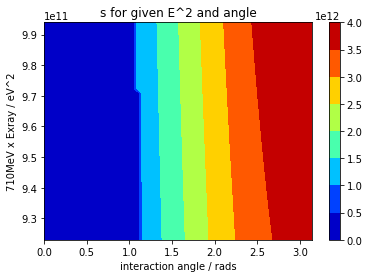
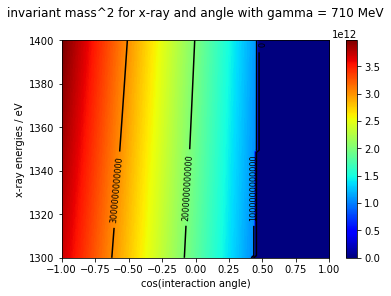
changed to cos theta, added code for energy vs angle

diff --git a/sigma_vs_sqrt(s).py b/sigma_vs_sqrt(s).py
@@ -20,9 +20,9 @@ me = 0.511e6
 re = 2.82e-15
 #%% function for cross-section
 
-def sigma(E_g, E_x, t):
+def sigma(E_g, E_x, c):
     # CoM invariant mass^2
-    s = 2*(1-np.cos(t))*E_g*E_x
+    s = 2*(1-c)*E_g*E_x
     if s < 4*me*me:
         sig = 0
     else:
@@ -34,32 +34,37 @@ def sigma(E_g, E_x, t):
 # 2. set of data for E_g and E_x with reasonable range in 1D array form
 
 # x-ray spectrum of range 1.3-1.4 keV with resolution 4 eV
-E_x = np.arange(1.3e3, 1.4e3, 4)
+E_x = np.linspace(1.3e3, 1.4e3, 100)
 # gamma ray maximum of 710 +- 50 MeV
-E_g = np.linspace(660e6, 760e6, 25)
+E_g = np.linspace(660e6, 760e6, 100)
 #%%
 # 3. matrix of sigma values for E_g and E_x values
 #matrix of cross-sections 
 sig = np.zeros((len(E_g), len(E_x)))
 
 #angle of interaction
-theta = 2.5
+cos = -0.1
+
 for i in range(len(E_g)):
     for j in range(len(E_x)):
-        sig[i][j] = sigma(E_g[i], E_x[j], theta)
+        sig[i][j] = sigma(E_g[i], E_x[j], cos)
 #%% print matrix
+#scaling
+vmax = sig.max()
+vmin = sig.min()
+xmin = E_x.min()
+xmax = E_x.max()
+gmin = E_g.min()
+gmax = E_g.max()
 
 x,y = np.meshgrid(E_x, E_g)
 
-plt.title("cross-section for given photon E at theta = 2.5", y=1.08)
+plt.title("cross-section for given photon E at cos(theta) = %f" % cos, y=1.08)
 plt.xlabel("X-ray energy / eV")
 plt.ylabel("Gamma ray energy / eV")
-plt.pcolormesh(x, y, sig, cmap = 'jet')
-plt.colorbar()
-plt.show()
 
-
-        
-
-
-    
+contours = plt.contour(x, y, sig, 6, vmax= vmax, vmin= vmin, colors='black')
+plt.clabel(contours, inline=True, fontsize=8)
+plt.imshow(sig, extent=[xmin, xmax, gmin, gmax], origin='lower',
+           cmap='jet', aspect='auto')
+plt.colorbar()  

diff --git a/sigma_Ex_vs_theta.py b/sigma_Ex_vs_theta.py
@@ -1,0 +1,59 @@
+# -*- coding: utf-8 -*-
+"""
+Created on Sat Jan 22 09:26:54 2022
+
+@author: 2dong
+"""
+#imports
+import numpy as np
+import matplotlib.pyplot as plt
+
+#constants
+# electron rest mass in eV
+me = 0.511e6
+# classical electron radius in m
+re = 2.82e-15
+#%% function for cross-section
+
+def sigma(E_g, E_x, c):
+    # CoM invariant mass^2
+    s = 2*(1-c)*E_g*E_x
+    if s < 4*me*me:
+        sig = 0
+    else:
+        #beta
+        b = np.sqrt(1-(4*me*me)/s)
+        sig = 0.5*np.pi*re*re*(1-b*b)*((3-b*b*b*b)*np.log((1+b)/(1-b))-2*b*(2-b*b))
+    return sig
+#%%
+#plotting cross-section for range 0<theta<pi and 1.3 keV < x-ray < 1.4 keV and 710 MeV gamma
+#E gamma = 710 MeV
+Eg = 710e6
+c = np.linspace(-1, 1, 100)
+E_x = np.linspace(1.3e3, 1.4e3, 100)
+# x-section for Ex and theta
+sig = np.zeros((len(E_x), len(c)))
+
+for i in range(len(E_x)):
+    for j in range(len(c)):
+        sig[i][j] = sigma(Eg, E_x[i], c[j])
+
+x,y = np.meshgrid(c, E_x)
+
+ma = sig[sig != 0]
+vmax = ma.max()
+vmin = ma.min()
+
+Emin = E_x.min()
+Emax = E_x.max()
+#%%
+plt.title("cross-section for given x-ray energies and angles", y=1.08)
+plt.xlabel("cos(interaction angle)")
+plt.ylabel("x-ray energy / eV")
+contours = plt.contour(x, y, sig, 4, vmax= vmax, vmin= vmin, colors='black')
+plt.clabel(contours, inline=True, fontsize=8)
+
+plt.imshow(sig, extent=[-1, 1, Emin, Emax], origin='lower',
+           cmap='jet', aspect='auto')
+plt.colorbar()
+        

diff --git a/s_vs_theta.py b/s_vs_theta.py
@@ -14,28 +14,35 @@ import matplotlib.pyplot as plt
 #constants
 # electron rest mass in eV
 me = 0.511e6
-
-#E = E_g x E_x
-def s(E, t):
-    s = 2*(1-np.cos(t))*E
+#%% in cos theta
+def s(E, c):
+    s = 2*(1-c)*E* 710e6
     if s < 4*me*me:
         s = 0
     return s
 #x-ray spread for fixed gamma
-E = np.linspace(1.3e3, 1.4e3, 50) * 710e6
-theta = np.linspace(0, np.pi, 50)
+E = np.linspace(1.3e3, 1.4e3, 100)
+c = np.linspace(-1, 1, 100)
 
-m = np.zeros((len(E), len(theta)))
+m = np.zeros((len(E), len(c)))
 
 for i in range(len(E)):
-    for j in range(len(theta)):
-        m[i][j] = s(E[i], theta[j])
+    for j in range(len(c)):
+        m[i][j] = s(E[i], c[j])
         
-x,y = np.meshgrid(theta, E)
-
-plt.title("s for given E^2 and angle")
-plt.xlabel("interaction angle / rads")
-plt.ylabel("710MeV x Exray / eV^2")
-plt.contourf(x, y, m, cmap = 'jet')
+x,y = np.meshgrid(c, E)
+#%% graph scales
+ma = m[m != 0]
+vmax = ma.max()
+vmin = ma.min()
+Emin = E.min()
+Emax = E.max()
+#%%
+plt.title("invariant mass^2 for x-ray and angle with gamma = 710 MeV", y=1.08)
+plt.xlabel("cos(interaction angle)")
+plt.ylabel("x-ray energies / eV")
+contours = plt.contour(x, y, m, 3, vmax= vmax, vmin= vmin, colors='black')
+plt.clabel(contours, inline=True, fontsize=8)
+plt.imshow(m, extent=[-1, 1, Emin, Emax], origin='lower',
+           cmap='jet', aspect='auto')
 plt.colorbar()
-plt.show()
